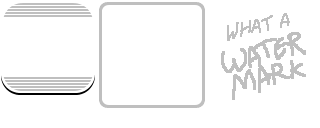
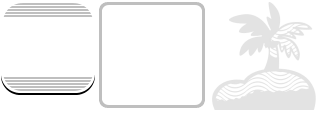
title passport things

Changed region(s): [[0.6562, 0.0312, 1.0, 0.875]]

diff --git a/ProjectSpecialK/TitleScreen.cpp b/ProjectSpecialK/TitleScreen.cpp
@@ -47,6 +47,7 @@ TitleScreen::TitleScreen()
 		const int playerPadding2 = playerPadding * 2;
 		const int playerPhotoSize = metrics["titleProfileCardPhotoSize"].as_integer();
 		const int playerMargin = metrics["titleProfileCardMargin"].as_integer();
+		const int playerWatermarkSize = metrics["titleProfileCardWatermarkSize"].as_integer();
 
 		auto playerText = fmt::format("{}\n{}", thePlayer.Name, town->Name);
 		auto playerPanelWidth = (int)(Sprite::MeasureText(1, playerText, 50.0f, true).x + (playerPhotoSize * 2) + playerPadding2 + playerMargin);
@@ -54,6 +55,10 @@ TitleScreen::TitleScreen()
 		playerPanel->Scale = 1.0f;
 		playerPanel->Color = UI::themeColors["dialogue"];
 		playerPanel->Visible = false;
+
+		auto playerWatermark = std::make_shared<SimpleSprite>("ui/titlepassport.png", 10, glm::vec2(playerPanel->Size.x - playerWatermarkSize + playerPadding, playerPanel->Size.y - playerPadding - playerWatermarkSize));
+		playerWatermark->Color = UI::themeColors["dialogue"];
+		playerPanel->AddChild(playerWatermark);
 
 		auto label = std::make_shared<TextLabel>(playerText, glm::vec2(playerPadding + playerPhotoSize + playerMargin + playerMargin, playerPadding));
 		label->Color = UI::textColors[7];
@@ -75,7 +80,6 @@ TitleScreen::TitleScreen()
 		auto portraitEdge = std::make_shared<SimpleSprite>("ui/titlepassport.png", 9, glm::vec2((float)playerMargin - 6, (float)playerMargin + 6));
 		portraitEdge->Color = UI::themeColors["dialogue"];
 		playerPanel->AddChild(portraitEdge);
-		//TODO: add watermark.
 
 		AddChild(playerPanel);
 	}
